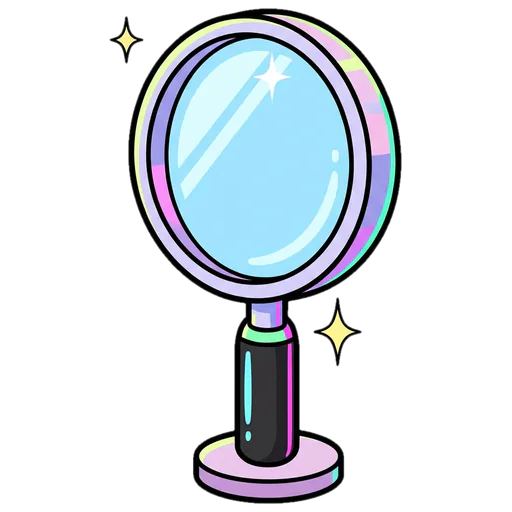
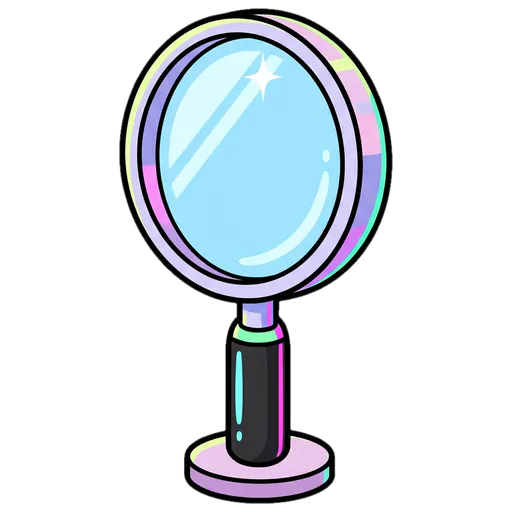
fix: make the badge prop a non-pickup enamel pin and drop magnifier sparkles

Changed region(s): [[0.2188, 0.0, 0.8125, 1.0], [0.2188, 0.0312, 0.2812, 0.125]]

diff --git a/public-office/art/SOURCES.md b/public-office/art/SOURCES.md
@@ -513,3 +513,8 @@ blank, with no text (`sign-stand` shows only a checkbox icon, and the `taxi` roo
 | `prop-skewer.webp` | nano_banana_flash | 1.5 | $PROP one Korean grilled skewer (kkochi) with chunks of grilled chicken and green onion on a wooden stick, glossy sauce. It flies toward the LEFT, with a few short speed swooshes trailing on its right side. |
 | `prop-video-call.webp` | nano_banana_flash | 1.5 | $PROP a giant upright smartphone standing on the floor like a sign, its screen showing a video call with one cheerful cartoon man's face in a suit and a green call button icon, no text. |
 | `prop-smartphone.webp` | nano_banana_flash | 1.5 | $PROP a small black smartphone with a glowing blank screen and a little ringing vibration mark. It flies toward the LEFT, with a few short speed swooshes trailing on its right side. |
+
+- 2026-11-05 follow-up (1.5 cr; part-2 total **140 cr**, balance 1212.83): the first `prop-gold-badge` (a gold star disc with
+  sparkles) read as a coin pickup, so it was regenerated as a navy/red enamel shield lapel pin with a silver pin-back:
+  nano_banana_flash, `$PROP a big shield-shaped company lapel pin badge seen at an angle, deep navy enamel face with a thick red enamel ring border and a polished silver metal rim, a simple white abstract leaf emblem in the middle, and the silver pin-back clasp clearly visible sticking out behind it. Not round, not gold, no coin, no star, no sparkles. It flies toward the LEFT, with a few short grey speed swooshes trailing on its right side.`. The detached sparkles on `prop-magnifier` were removed locally by keeping only
+  the largest connected part and re-containing it in 512×512 with an 8 px margin.
